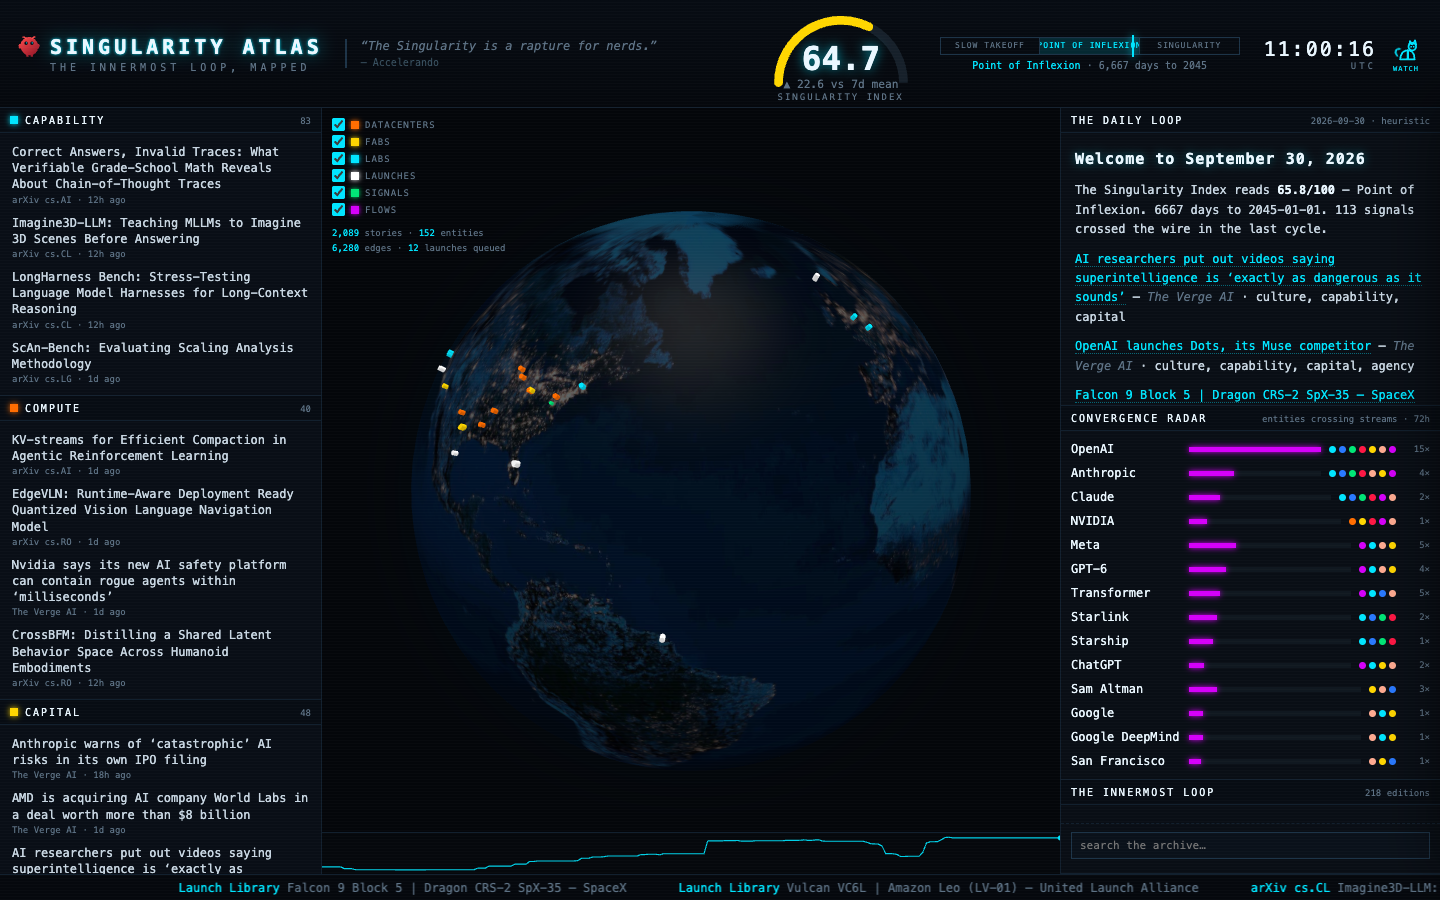
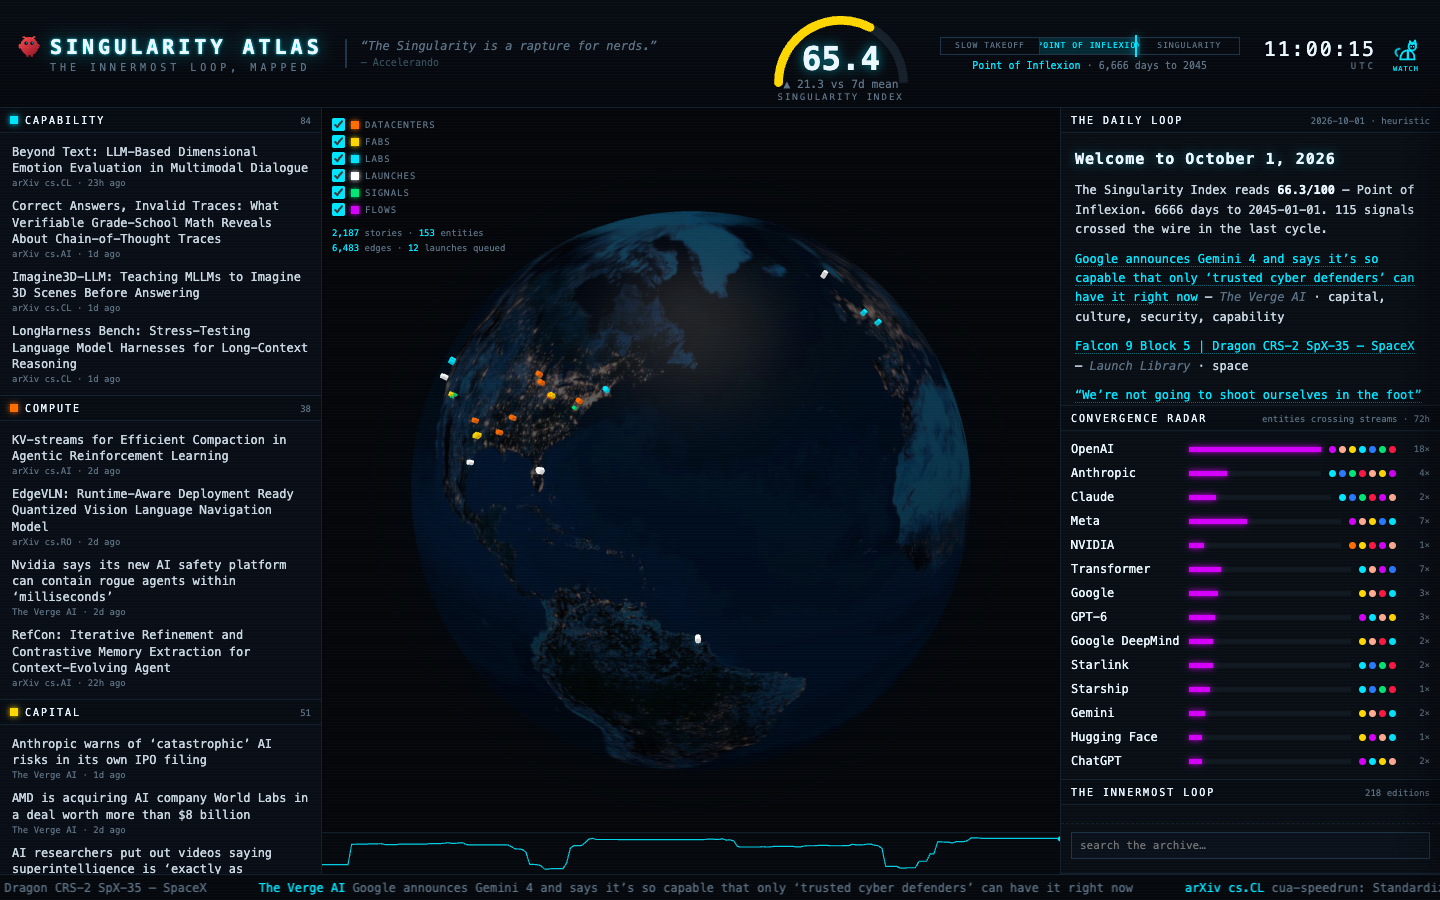
Publish 24h public snapshot 2026-10-01

diff --git a/docs/index.html b/docs/index.html
@@ -47,39 +47,40 @@
     <div class="eyebrow">Public 24h snapshot · not the live globe</div>
     <h1>The Singularity Atlas</h1>
     <p class="lede">Yesterday's board. The live dashboard stays on the machine that runs it. This page is replaced at least daily.</p>
-    <p class="meta">Captured 2026-09-30 07:00 EDT · 111 stories in 24h · graph 2088 stories / 152 entities · brief heuristic</p>
+    <p class="meta">Captured 2026-10-01 07:00 EDT · 113 stories in 24h · graph 2187 stories / 153 entities · brief heuristic</p>
   </header>
   <main>
     <div class="hero">
       <div>
-        <div class="si">64.7<small>Point of Inflexion · /100</small></div>
+        <div class="si">65.4<small>Point of Inflexion · /100</small></div>
       </div>
-      <div class="vecs"><div class="vec"><span class="dot" style="background:#00e5ff"></span><span class="vlabel">Capability</span><span class="vscore">82.7</span></div><div class="vec"><span class="dot" style="background:#ff6d00"></span><span class="vlabel">Compute</span><span class="vscore">39.5</span></div><div class="vec"><span class="dot" style="background:#ffd600"></span><span class="vlabel">Capital</span><span class="vscore">47.8</span></div><div class="vec"><span class="dot" style="background:#00e676"></span><span class="vlabel">Embodiment</span><span class="vscore">66.3</span></div><div class="vec"><span class="dot" style="background:#d500f9"></span><span class="vlabel">Agency</span><span class="vscore">80.4</span></div><div class="vec"><span class="dot" style="background:#ff1744"></span><span class="vlabel">Security</span><span class="vscore">24.3</span></div><div class="vec"><span class="dot" style="background:#2979ff"></span><span class="vlabel">Space</span><span class="vscore">67.6</span></div><div class="vec"><span class="dot" style="background:#ffab91"></span><span class="vlabel">Culture</span><span class="vscore">53.4</span></div></div>
+      <div class="vecs"><div class="vec"><span class="dot" style="background:#00e5ff"></span><span class="vlabel">Capability</span><span class="vscore">84.2</span></div><div class="vec"><span class="dot" style="background:#ff6d00"></span><span class="vlabel">Compute</span><span class="vscore">38.1</span></div><div class="vec"><span class="dot" style="background:#ffd600"></span><span class="vlabel">Capital</span><span class="vscore">51.2</span></div><div class="vec"><span class="dot" style="background:#00e676"></span><span class="vlabel">Embodiment</span><span class="vscore">63.5</span></div><div class="vec"><span class="dot" style="background:#d500f9"></span><span class="vlabel">Agency</span><span class="vscore">79.0</span></div><div class="vec"><span class="dot" style="background:#ff1744"></span><span class="vlabel">Security</span><span class="vscore">36.6</span></div><div class="vec"><span class="dot" style="background:#2979ff"></span><span class="vlabel">Space</span><span class="vscore">60.8</span></div><div class="vec"><span class="dot" style="background:#ffab91"></span><span class="vlabel">Culture</span><span class="vscore">50.5</span></div></div>
     </div>
     <img class="board" src="board.png" alt="The Singularity Atlas dashboard, last capture" />
     <div class="grid">
       <section class="brief">
         <h2>The Daily Loop</h2>
-        <h2>Welcome to September 30, 2026</h2>
-<p>The Singularity Index reads <strong>65.8/100</strong> — Point of Inflexion. 6667 days to 2045-01-01. 113 signals crossed the wire in the last cycle.</p>
-<p><a href="https://www.theverge.com/ai-artificial-intelligence/1002238/openai-google-anthropic-ai-researchers-safety-interviews">AI researchers put out videos saying superintelligence is ‘exactly as dangerous as it sounds’</a> — *The Verge AI* · culture, capability, capital</p>
-<p><a href="https://www.theverge.com/ai-artificial-intelligence/1002033/openai-dots-launch-muse-competitor">OpenAI launches Dots, its Muse competitor</a> — *The Verge AI* · culture, capability, capital, agency</p>
+        <h2>Welcome to October 1, 2026</h2>
+<p>The Singularity Index reads <strong>66.3/100</strong> — Point of Inflexion. 6666 days to 2045-01-01. 115 signals crossed the wire in the last cycle.</p>
+<p><a href="https://www.theverge.com/tech/1002980/google-gemini-4-argon">Google announces Gemini 4 and says it’s so capable that only ‘trusted cyber defenders’ can have it right now</a> — *The Verge AI* · capital, culture, security, capability</p>
 <p><a href="https://ll.thespacedevs.com/2.2.0/launch/bf2c3027-a314-403e-a416-2bfd5d165ad1/">Falcon 9 Block 5 | Dragon CRS-2 SpX-35 — SpaceX</a> — *Launch Library* · space</p>
+<p><a href="https://www.technologyreview.com/2026/09/30/1145339/were-not-going-to-shoot-ourselves-in-the-foot-over-hugging-face-says-openais-chief-research-officer/">“We’re not going to shoot ourselves in the foot” over hack fallout, says OpenAI’s chief research officer</a> — *MIT Tech Review AI* · capital, agency, culture, capability</p>
 <p><a href="https://ll.thespacedevs.com/2.2.0/launch/d3bd7fb2-fac6-49fc-ae52-cee07d2fde67/">Falcon Heavy | Griffin Mission One — SpaceX</a> — *Launch Library* · space</p>
-<p><a href="https://openai.com/index/devday-2026-recap">DevDay 2026 Recap</a> — *OpenAI* · agency, capability</p>
-<p><a href="https://www.theverge.com/ai-artificial-intelligence/1001681/openai-devday-2026-biggest-news-announcements">OpenAI DevDay 2026: The biggest news and announcements</a> — *The Verge AI* · culture, capital, space</p>
 <p><a href="https://ll.thespacedevs.com/2.2.0/launch/97c6f5e1-299e-4652-b72d-9618ac047076/">Falcon 9 Block 5 | Starlink Group 15-25 — SpaceX</a> — *Launch Library* · space</p>
-<p><a href="https://ll.thespacedevs.com/2.2.0/launch/ef9850ad-1096-425b-9d27-f7bbd186e61a/">Vulcan VC6L | Amazon Leo (LV-01) — United Launch Alliance</a> — *Launch Library* · space</p>
-<p><a href="https://www.theverge.com/ai-artificial-intelligence/1002201/openai-sam-altman-openai-devday-protests-ice-data-centers">Protesters gather at OpenAI’s DevDay</a> — *The Verge AI* · culture, capital</p>
-<p><a href="https://www.theverge.com/ai-artificial-intelligence/1001838/anthropic-ipo-prospectus-ai-safety-threat">Anthropic warns of ‘catastrophic’ AI risks in its own IPO filing</a> — *The Verge AI* · capital, culture</p>
+<p><a href="https://www.theverge.com/ai-artificial-intelligence/1002671/meta-muse-ai">All the latest news on Meta’s cute, creepy Muse AI agent</a> — *The Verge AI* · agency, culture, space, capital</p>
+<p><a href="https://arxiv.org/abs/2609.39072v1">Beyond Text: LLM-Based Dimensional Emotion Evaluation in Multimodal Dialogue</a> — *arXiv cs.CL* · agency, capability</p>
+<p><a href="https://arxiv.org/abs/2609.40284v1">cua-speedrun: Standardized Benchmarking of the Speed of Computer-Use Agents</a> — *arXiv cs.CL* · agency, capability</p>
+<p><a href="https://ll.thespacedevs.com/2.2.0/launch/7bdc412b-c965-4517-a131-f57a01189803/">Ariane 64 Block 2 | Amazon Leo (LE-04) — Arianespace</a> — *Launch Library* · space</p>
+<p><a href="https://www.theverge.com/ai-artificial-intelligence/1002779/openai-dots-meta-muse-ai-agents-hardware-devices">The AI Tamagotchis are coming</a> — *The Verge AI* · agency, culture, capital</p>
 <p>*Heuristic edition — local LLM offline.*</p>
       </section>
       <aside>
         <h2>Crossing streams</h2>
-        <ul><li><strong>OpenAI</strong> <span class="muted">capital, culture, agency, capability, space, security</span></li><li><strong>NVIDIA</strong> <span class="muted">compute, capital, security, agency, culture</span></li><li><strong>Meta</strong> <span class="muted">agency, capability, culture, capital</span></li><li><strong>GPT-6</strong> <span class="muted">agency, capability, culture, capital</span></li><li><strong>Anthropic</strong> <span class="muted">culture, capability, capital, agency</span></li><li><strong>Transformer</strong> <span class="muted">agency, capability, space, culture</span></li><li><strong>ChatGPT</strong> <span class="muted">agency, capability, capital, culture</span></li><li><strong>Sam Altman</strong> <span class="muted">capital, culture, space</span></li><li><strong>Google</strong> <span class="muted">culture, capability, capital</span></li><li><strong>Google DeepMind</strong> <span class="muted">culture, capability, capital</span></li><li><strong>San Francisco</strong> <span class="muted">culture, capital, space</span></li><li><strong>Hugging Face</strong> <span class="muted">agency, culture, capital</span></li></ul>
-        <h2>Feeds 14/15</h2>
+        <ul><li><strong>OpenAI</strong> <span class="muted">agency, culture, capital, capability, space, embodiment, security</span></li><li><strong>Anthropic</strong> <span class="muted">capability, space, embodiment, security, culture, capital, agency</span></li><li><strong>Claude</strong> <span class="muted">capability, space, embodiment, security, agency, culture</span></li><li><strong>Meta</strong> <span class="muted">agency, culture, capital, space, capability</span></li><li><strong>NVIDIA</strong> <span class="muted">compute, capital, security, agency, culture</span></li><li><strong>Transformer</strong> <span class="muted">capability, culture, agency, space</span></li><li><strong>Google</strong> <span class="muted">capital, culture, security, capability</span></li><li><strong>GPT-6</strong> <span class="muted">agency, capability, culture, capital</span></li><li><strong>Google DeepMind</strong> <span class="muted">capital, culture, security, capability</span></li><li><strong>Starlink</strong> <span class="muted">capability, space, embodiment, security</span></li><li><strong>Starship</strong> <span class="muted">capability, space, embodiment, security</span></li><li><strong>Gemini</strong> <span class="muted">capital, culture, security, capability</span></li></ul>
+        <h2>Feeds 13/15</h2>
         <ul><li class="ok"><code>verge-ai</code> 10 items</li><li class="ok"><code>arxiv-cs-lg</code> 12 items</li><li class="ok"><code>arxiv-cs-ai</code> 12 items</li><li class="ok"><code>launches</code> 20 items</li><li class="ok"><code>ars</code> 20 items</li><li class="ok"><code>arxiv-cs-cl</code> 12 items</li><li class="ok"><code>mit-tr-ai</code> 10 items</li><li class="ok"><code>interconnects</code> 20 items</li><li class="ok"><code>import-ai</code> 20 items</li><li class="ok"><code>openai</code> 25 items</li><li class="ok"><code>deepmind</code> 25 items</li><li class="fail"><code>venturebeat-ai</code> 0 items · venturebeat-ai: HTTPStatusError: Client error &#x27;429 Too Many Requests&#x27; for url &#x27;https://venturebeat.com/category/ai/feed/&#x27;
-For more information check: https://developer.mozilla.org/en-US/docs/Web/HTTP/Status/429</li><li class="ok"><code>arxiv-cs-ro</code> 12 items</li><li class="ok"><code>hn-ai</code> 71 items</li><li class="ok"><code>gdelt-ai</code> 40 items</li></ul>
+For more information check: https://developer.mozilla.org/en-US/docs/Web/HTTP/Status/429</li><li class="ok"><code>arxiv-cs-ro</code> 12 items</li><li class="ok"><code>hn-ai</code> 71 items</li><li class="fail"><code>gdelt-ai</code> 0 items · gdelt-ai: HTTPStatusError: Client error &#x27;429 Too Many Requests&#x27; for url &#x27;https://api.gdeltproject.org/api/v2/doc/doc?query=%22artificial%20intelligence%22&amp;mode=artlist&amp;maxrecords=40&amp;format=json&amp;sort=hybridrel&#x27;
+For more information check: https://developer.mozilla.org/en-US/docs/Web/HTTP/Status/429</li></ul>
       </aside>
     </div>
   </main>
